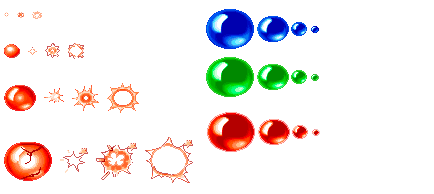
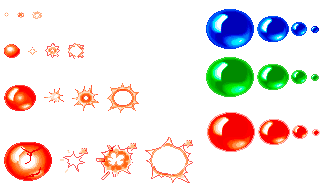
Clock booster implemented and particles for blue and green balloon added

diff --git a/Pang/Pang/Source/Enemy_Balloon.cpp b/Pang/Pang/Source/Enemy_Balloon.cpp
@@ -34,12 +34,66 @@ Enemy_Balloon::Enemy_Balloon(int x, int y, enum class ENEMY_TYPE type) : Enemy(x
 		bigBalloonAnim.PushBack({ 257,119, 32, 26 });
 		smallBalloonAnim.PushBack({ 292,125,16,14 });
 		verySmallBalloonAnim.PushBack({ 312,129,8,7 });
+		
+		particleDeathVeryBig.anim.PushBack({ 4,142,48,39 });
+		particleDeathVeryBig.anim.PushBack({ 60,148,28,25 });
+		particleDeathVeryBig.anim.PushBack({ 96,143,41,37 });
+		particleDeathVeryBig.anim.PushBack({ 145,137,48,46 });
+		particleDeathVeryBig.anim.speed = 0.25f;
+		particleDeathVeryBig.anim.loop = false;
+
+		particleDeathBig.anim.PushBack({ 4,85,32,26 });
+		particleDeathBig.anim.PushBack({ 44,88,20,15 });
+		particleDeathBig.anim.PushBack({ 72,85,27,26 });
+		particleDeathBig.anim.PushBack({ 107,83,32,30 });
+		particleDeathBig.anim.speed = 0.25f;
+		particleDeathBig.anim.loop = false;
+
+		particleDeathSmall.anim.PushBack({ 4,44,16,14 });
+		particleDeathSmall.anim.PushBack({ 28,47,9,8 });
+		particleDeathSmall.anim.PushBack({ 45,43,15,15 });
+		particleDeathSmall.anim.PushBack({ 68,43,16,16 });
+		particleDeathSmall.anim.speed = 0.25f;
+		particleDeathSmall.anim.loop = false;
+
+		particleDeathVerySmall.anim.PushBack({ 4,12,5,5 });
+		particleDeathVerySmall.anim.PushBack({ 17,12,7,6 });
+		particleDeathVerySmall.anim.PushBack({ 32,11,10,8 });
+		particleDeathVerySmall.anim.speed = 0.25f;
+		particleDeathVerySmall.anim.loop = false;
 	}
 	if (App->player->scene2 || App->player->scene5) {
 		veryBigBalloonAnim.PushBack({ 206, 9, 48, 40 });
 		bigBalloonAnim.PushBack({ 257, 16, 32, 26 });
 		smallBalloonAnim.PushBack({ 291,22,16,14 });
 		verySmallBalloonAnim.PushBack({ 311,26,8,7 });
+
+		particleDeathVeryBig.anim.PushBack({ 4,269,48,39 });
+		particleDeathVeryBig.anim.PushBack({ 60,276,28,25 });
+		particleDeathVeryBig.anim.PushBack({ 96,270,41,37 });
+		particleDeathVeryBig.anim.PushBack({ 145,266,48,46 });
+		particleDeathVeryBig.anim.speed = 0.25f;
+		particleDeathVeryBig.anim.loop = false;
+
+		particleDeathBig.anim.PushBack({ 4,234,32,26 });
+		particleDeathBig.anim.PushBack({ 44,238,20,15 });
+		particleDeathBig.anim.PushBack({ 72,234,27,26 });
+		particleDeathBig.anim.PushBack({ 107,232,32,30 });
+		particleDeathBig.anim.speed = 0.25f;
+		particleDeathBig.anim.loop = false;
+
+		particleDeathSmall.anim.PushBack({ 4,213,16,14 });
+		particleDeathSmall.anim.PushBack({ 28,215,9,8 });
+		particleDeathSmall.anim.PushBack({ 45,212,15,15 });
+		particleDeathSmall.anim.PushBack({ 68,212,16,16 });
+		particleDeathSmall.anim.speed = 0.25f;
+		particleDeathSmall.anim.loop = false;
+
+		particleDeathVerySmall.anim.PushBack({ 4,201,5,5 });
+		particleDeathVerySmall.anim.PushBack({ 17,201,7,6 });
+		particleDeathVerySmall.anim.PushBack({ 32,200,10,8 });
+		particleDeathVerySmall.anim.speed = 0.25f;
+		particleDeathVerySmall.anim.loop = false;
 	}
 	if (App->player->scene3 || App->player->scene6)
 	{
@@ -47,33 +101,34 @@ Enemy_Balloon::Enemy_Balloon(int x, int y, enum class ENEMY_TYPE type) : Enemy(x
 		bigBalloonAnim.PushBack({ 257, 64, 32, 26 });
 		smallBalloonAnim.PushBack({ 291,70,16,14 });
 		verySmallBalloonAnim.PushBack({ 311,74,8,7 });
+
+		particleDeathVeryBig.anim.PushBack({ 230,192,48,39 });
+		particleDeathVeryBig.anim.PushBack({ 290,199,28,25 });
+		particleDeathVeryBig.anim.PushBack({ 333,193,41,37 });
+		particleDeathVeryBig.anim.PushBack({ 380,189,48,46 });
+		particleDeathVeryBig.anim.speed = 0.25f;
+		particleDeathVeryBig.anim.loop = false;
+
+		particleDeathBig.anim.PushBack({ 294,249,32,26 });
+		particleDeathBig.anim.PushBack({ 333,253,20,15 });
+		particleDeathBig.anim.PushBack({ 364,249,27,26 });
+		particleDeathBig.anim.PushBack({ 396,247,32,30 });
+		particleDeathBig.anim.speed = 0.25f;
+		particleDeathBig.anim.loop = false;
+
+		particleDeathSmall.anim.PushBack({ 358,290,16,14 });
+		particleDeathSmall.anim.PushBack({ 379,292,9,8 });
+		particleDeathSmall.anim.PushBack({ 394,289,15,15 });
+		particleDeathSmall.anim.PushBack({ 412,289,16,16 });
+		particleDeathSmall.anim.speed = 0.25f;
+		particleDeathSmall.anim.loop = false;
+
+		particleDeathVerySmall.anim.PushBack({ 392,318,5,5 });
+		particleDeathVerySmall.anim.PushBack({ 405,318,7,6 });
+		particleDeathVerySmall.anim.PushBack({ 418,317,10,8 });
+		particleDeathVerySmall.anim.speed = 0.25f;
+		particleDeathVerySmall.anim.loop = false;
 	}
-	particleDeathVeryBig.anim.PushBack({ 4,142,48,39 });
-	particleDeathVeryBig.anim.PushBack({ 60,148,28,25 });
-	particleDeathVeryBig.anim.PushBack({ 96,143,41,37 });
-	particleDeathVeryBig.anim.PushBack({ 145,137,48,46 });
-	particleDeathVeryBig.anim.speed = 0.25f;
-	particleDeathVeryBig.anim.loop = false;
-
-	particleDeathBig.anim.PushBack({ 4,85,32,26 });
-	particleDeathBig.anim.PushBack({ 44,88,20,15 });
-	particleDeathBig.anim.PushBack({ 72,85,27,26 });
-	particleDeathBig.anim.PushBack({ 107,83,32,30 });
-	particleDeathBig.anim.speed = 0.25f;
-	particleDeathBig.anim.loop = false;
-
-	particleDeathSmall.anim.PushBack({ 4,44,16,14 });
-	particleDeathSmall.anim.PushBack({ 28,47,9,8 });
-	particleDeathSmall.anim.PushBack({ 45,43,15,15 });
-	particleDeathSmall.anim.PushBack({ 68,43,16,16 });
-	particleDeathSmall.anim.speed = 0.25f;
-	particleDeathSmall.anim.loop = false;
-
-	particleDeathVerySmall.anim.PushBack({ 4,12,5,5 });
-	particleDeathVerySmall.anim.PushBack({ 17,12,7,6 });
-	particleDeathVerySmall.anim.PushBack({ 32,11,10,8 });
-	particleDeathVerySmall.anim.speed = 0.25f;
-	particleDeathVerySmall.anim.loop = false;
 
 	currentAnim = &veryBigBalloonAnim;
 
@@ -122,7 +177,7 @@ Enemy_Balloon::Enemy_Balloon(int x, int y, enum class ENEMY_TYPE type) : Enemy(x
 
 void Enemy_Balloon::Update()
 {
-	if (App->player->ready == 0) {
+	if (App->player->ready == 0 && App->player->stopTime == 0) {
 		MRUA();
 		balloonBounce();
 

diff --git a/Pang/Pang/Source/ModulePlayer.cpp b/Pang/Pang/Source/ModulePlayer.cpp
@@ -97,11 +97,13 @@ bool ModulePlayer::Start()
 	LOG("Loading player textures");
 
 	bool ret = true;
-
+	bool dynamite = false;
 	bool godMode = false;
 
 	ready = 3;
 
+	stopTime = 0;
+	inmunityTime = 0;
 
 	texture = App->textures->Load("Assets/Movement/Sprite_Sheet_Movement.png");
 	timeTexture = App->textures->Load("Assets/UI/Time.png");
@@ -299,6 +301,8 @@ update_status ModulePlayer::Update()
 		currentAnimation->Update();
 
 		if (inmunityTime > 0) { inmunityTime--; }
+
+		if (stopTime > 0) { stopTime--; }
 		
 	}
 	
@@ -515,14 +519,27 @@ void ModulePlayer::OnCollision(Collider* c1, Collider* c2)
 
 		if (c2 == App->boosters->typeBooster[SHIELD].collider)
 		{
-			
 			inmunityTime = 180;
 
 		}
 
+		if (c2 == App->boosters->typeBooster[CLOCK].collider) 
+		{
+			stopTime = 420;
+		}
 
-		for (int i = 0; i < MAX; i++) {
-			if (App->boosters->typeBooster[i].booster == true && c2 == App->boosters->typeBooster[i].collider) {
+		if (c2 == App->boosters->typeBooster[DYNAMITE].collider) {
+			dynamite = true;
+		}
+
+		if (c2 == App->boosters->typeBooster[DOUBLESHOT].collider) {
+			doubleshot = true;
+		}
+
+		for (int i = 0; i < MAX; i++) 
+		{
+			if (App->boosters->typeBooster[i].booster == true && c2 == App->boosters->typeBooster[i].collider) 
+			{
 				App->boosters->typeBooster[i].collider->pendingToDelete = true;
 				App->boosters->typeBooster[i].booster = false;
 				break;

diff --git a/Pang/Pang/Source/Enemy.cpp b/Pang/Pang/Source/Enemy.cpp
@@ -3,6 +3,7 @@
 #include "Application.h"
 #include "ModuleCollisions.h"
 #include "ModuleParticles.h"
+#include "ModulePlayer.h"
 #include "ModuleAudio.h"
 #include "ModuleRender.h"
 
@@ -33,12 +34,30 @@ void Enemy::Update()
 
 void Enemy::Draw()
 {
-	if (currentAnim != nullptr)
-		App->render->Blit(texture, position.x, position.y, &(currentAnim->GetCurrentFrame()));
+	if (currentAnim != nullptr) 
+	{
+		if (App->player->stopTime > 0) {
+			if (App->player->stopTime > 40) {
+				App->render->Blit(texture, position.x, position.y, &(currentAnim->GetCurrentFrame()));
+			}
+			
+			else if (App->player->stopTime < 30 && App->player->stopTime > 20) {
+				App->render->Blit(texture, position.x, position.y, &(currentAnim->GetCurrentFrame()));
+			}
+			else if (App->player->stopTime < 10 && App->player->stopTime > 0) {
+				App->render->Blit(texture, position.x, position.y, &(currentAnim->GetCurrentFrame()));
+			}
+
+		}
+		else {
+			App->render->Blit(texture, position.x, position.y, &(currentAnim->GetCurrentFrame()));
+		}
+		
+	}
+		
 }
 
 void Enemy::OnCollision(Collider* collider)
 {
-
 	App->audio->PlayFx(destroyedFx);
 }

diff --git a/Pang/Pang/Source/ModuleBoosters.cpp b/Pang/Pang/Source/ModuleBoosters.cpp
@@ -41,6 +41,10 @@ bool ModuleBoosters::Start()
 
 	}
 
+	doubleshotUI.PushBack({ 223, 68, 29, 32 });
+	gunUI.PushBack({183, 76, 32, 24});
+	hookUI.PushBack({261, 69, 32, 31});
+
 	shieldInmunity.PushBack({ 105,69,32,39 });
 	shieldInmunity.PushBack({ 65,69,33,38 });
 	shieldInmunity.speed = 0.2f;
@@ -58,16 +62,16 @@ update_status ModuleBoosters::Update()
 	
 		srand(SDL_GetTicks());
 
-		generatedNumber = rand() % 4;
-		//generatedNumber = 3;
+		//generatedNumber = rand() % 4;
+		generatedNumber = 3;
 		
 
 		LOG("%d",generatedNumber);
 
 		if (generatedNumber == 3)
 		{
-			generatedNumber = rand() % 7;
-			//generatedNumber = 3;
+			//generatedNumber = rand() % 7;
+			generatedNumber = 6;
 			
 		
 			switch (generatedNumber)
@@ -215,6 +219,10 @@ update_status ModuleBoosters::PostUpdate()
 		}
 	}
 	shieldInmunity.Update();
+
+	if (App->player->doubleshot) {
+		App->render->Blit(texture, 97, 225, &doubleshotUI.GetCurrentFrame(), 1.0f);
+	}
 	return update_status::UPDATE_CONTINUE;
 }
 

diff --git a/Pang/Pang/Source/Enemy_Balloon.h b/Pang/Pang/Source/Enemy_Balloon.h
@@ -14,7 +14,9 @@ public:
 	// Constructor (x y coordinates in the world)
 	// Creates animation and movement data and the collider
 	Enemy_Balloon(int x, int y, enum class ENEMY_TYPE type);
-	Enemy_Balloon() {};
+	Enemy_Balloon() {
+		particleDeathVeryBig.anim.Reset();
+	};
 
 	//virtual void OnCollision(Collider* collider);
 
@@ -50,6 +52,7 @@ private:
 	Animation balloonDeath;
 
 	Particle particleDeathVeryBig;
+	Particle particleDeathVeryBigBlue;
 	Particle particleDeathBig;
 	Particle particleDeathSmall;
 	Particle particleDeathVerySmall;

diff --git a/Pang/Pang/Source/ModulePlayer.h b/Pang/Pang/Source/ModulePlayer.h
@@ -106,7 +106,16 @@ public:
 	//Shield booster (Protects one hit)
 	int inmunityTime = 0;
 
+	//Clock booster
 
+	int stopTime = 0;
+
+	//Dynamite Booster
+
+	bool dynamite = false;
+	
+	//Doubleshot Booster
+	bool doubleshot = false;
 
 
 	//Enum class for Enemy Type

diff --git a/Pang/Pang/Source/ModuleBoosters.h b/Pang/Pang/Source/ModuleBoosters.h
@@ -74,6 +74,10 @@ public:
 	//Animations
 	Animation* currentAnim = nullptr;
 
+	Animation doubleshotUI;
+	Animation hookUI;
+	Animation gunUI;
+
 	Animation* inmunityAnim = nullptr;
 	Animation shieldInmunity;
 
